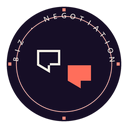
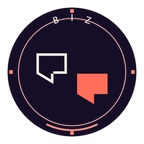
design: 徽章美化（短缩写环绕/底部弧/符号放大）+ 小尺寸简化版

diff --git a/www/app.js b/www/app.js
@@ -196,7 +196,7 @@
                      review: '审片', aigc: 'AIGC', boss: '老板' };
     var roleKey = ROLE_FILE[String(t.role ? t.role : '')];
     var badge = roleKey
-      ? '<img class="tcard-role" src="roles/' + roleKey + '.png" alt="' +
+      ? '<img class="tcard-role" src="roles/' + roleKey + '_sm.png" alt="' +
         esc(ROLE_TIP[roleKey]) + '" title="' + esc(ROLE_TIP[roleKey]) + '">'
       : '<span class="tcard-level" title="' + esc(S.codeOf(t)) + '">' + esc(t.secret) + '</span>';
 
@@ -371,7 +371,7 @@
                     aigc: 'AIGC 制作', review: '审片', boss: '老板', toli: '执行代理' };
     var role = state.cfg.job_role || '';
     var roleHTML = role
-      ? '<img class="role-badge" src="roles/' + esc(role) + '.png" alt="' +
+      ? '<img class="role-badge" src="roles/' + esc(role) + '_sm.png" alt="' +
         esc(ROLE_CN[role] || role) + '">'
       : '';
 
